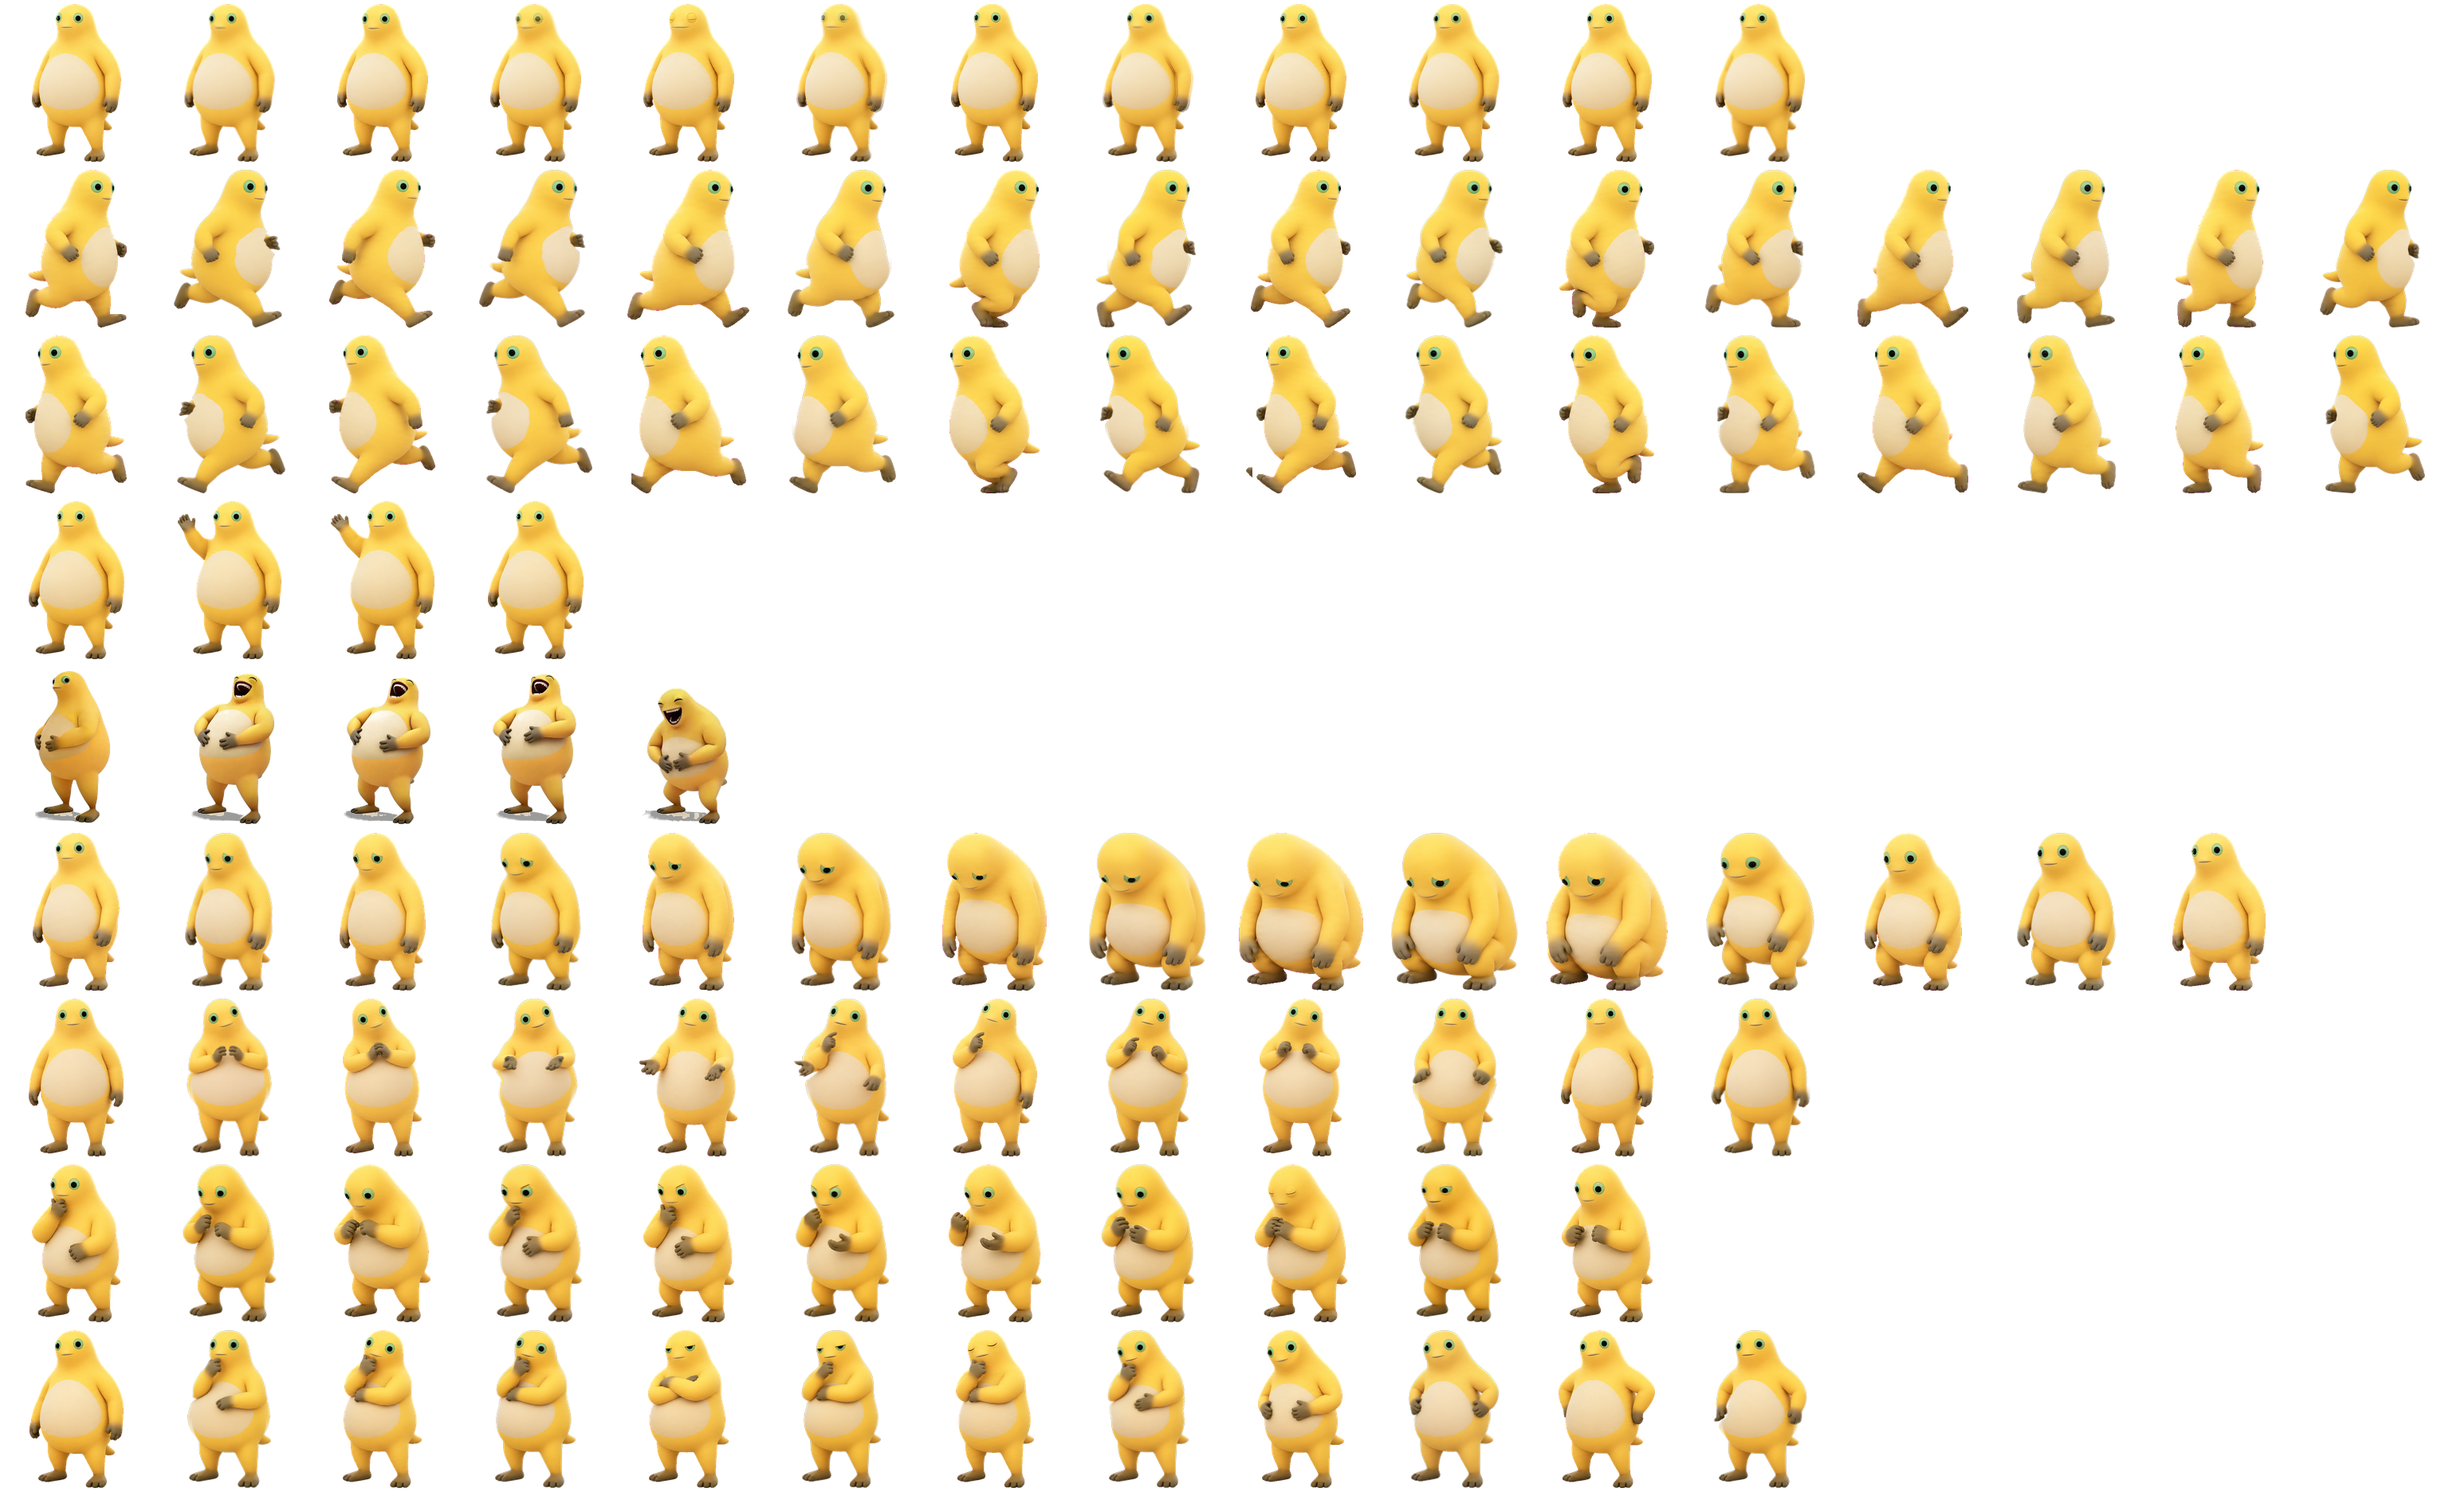
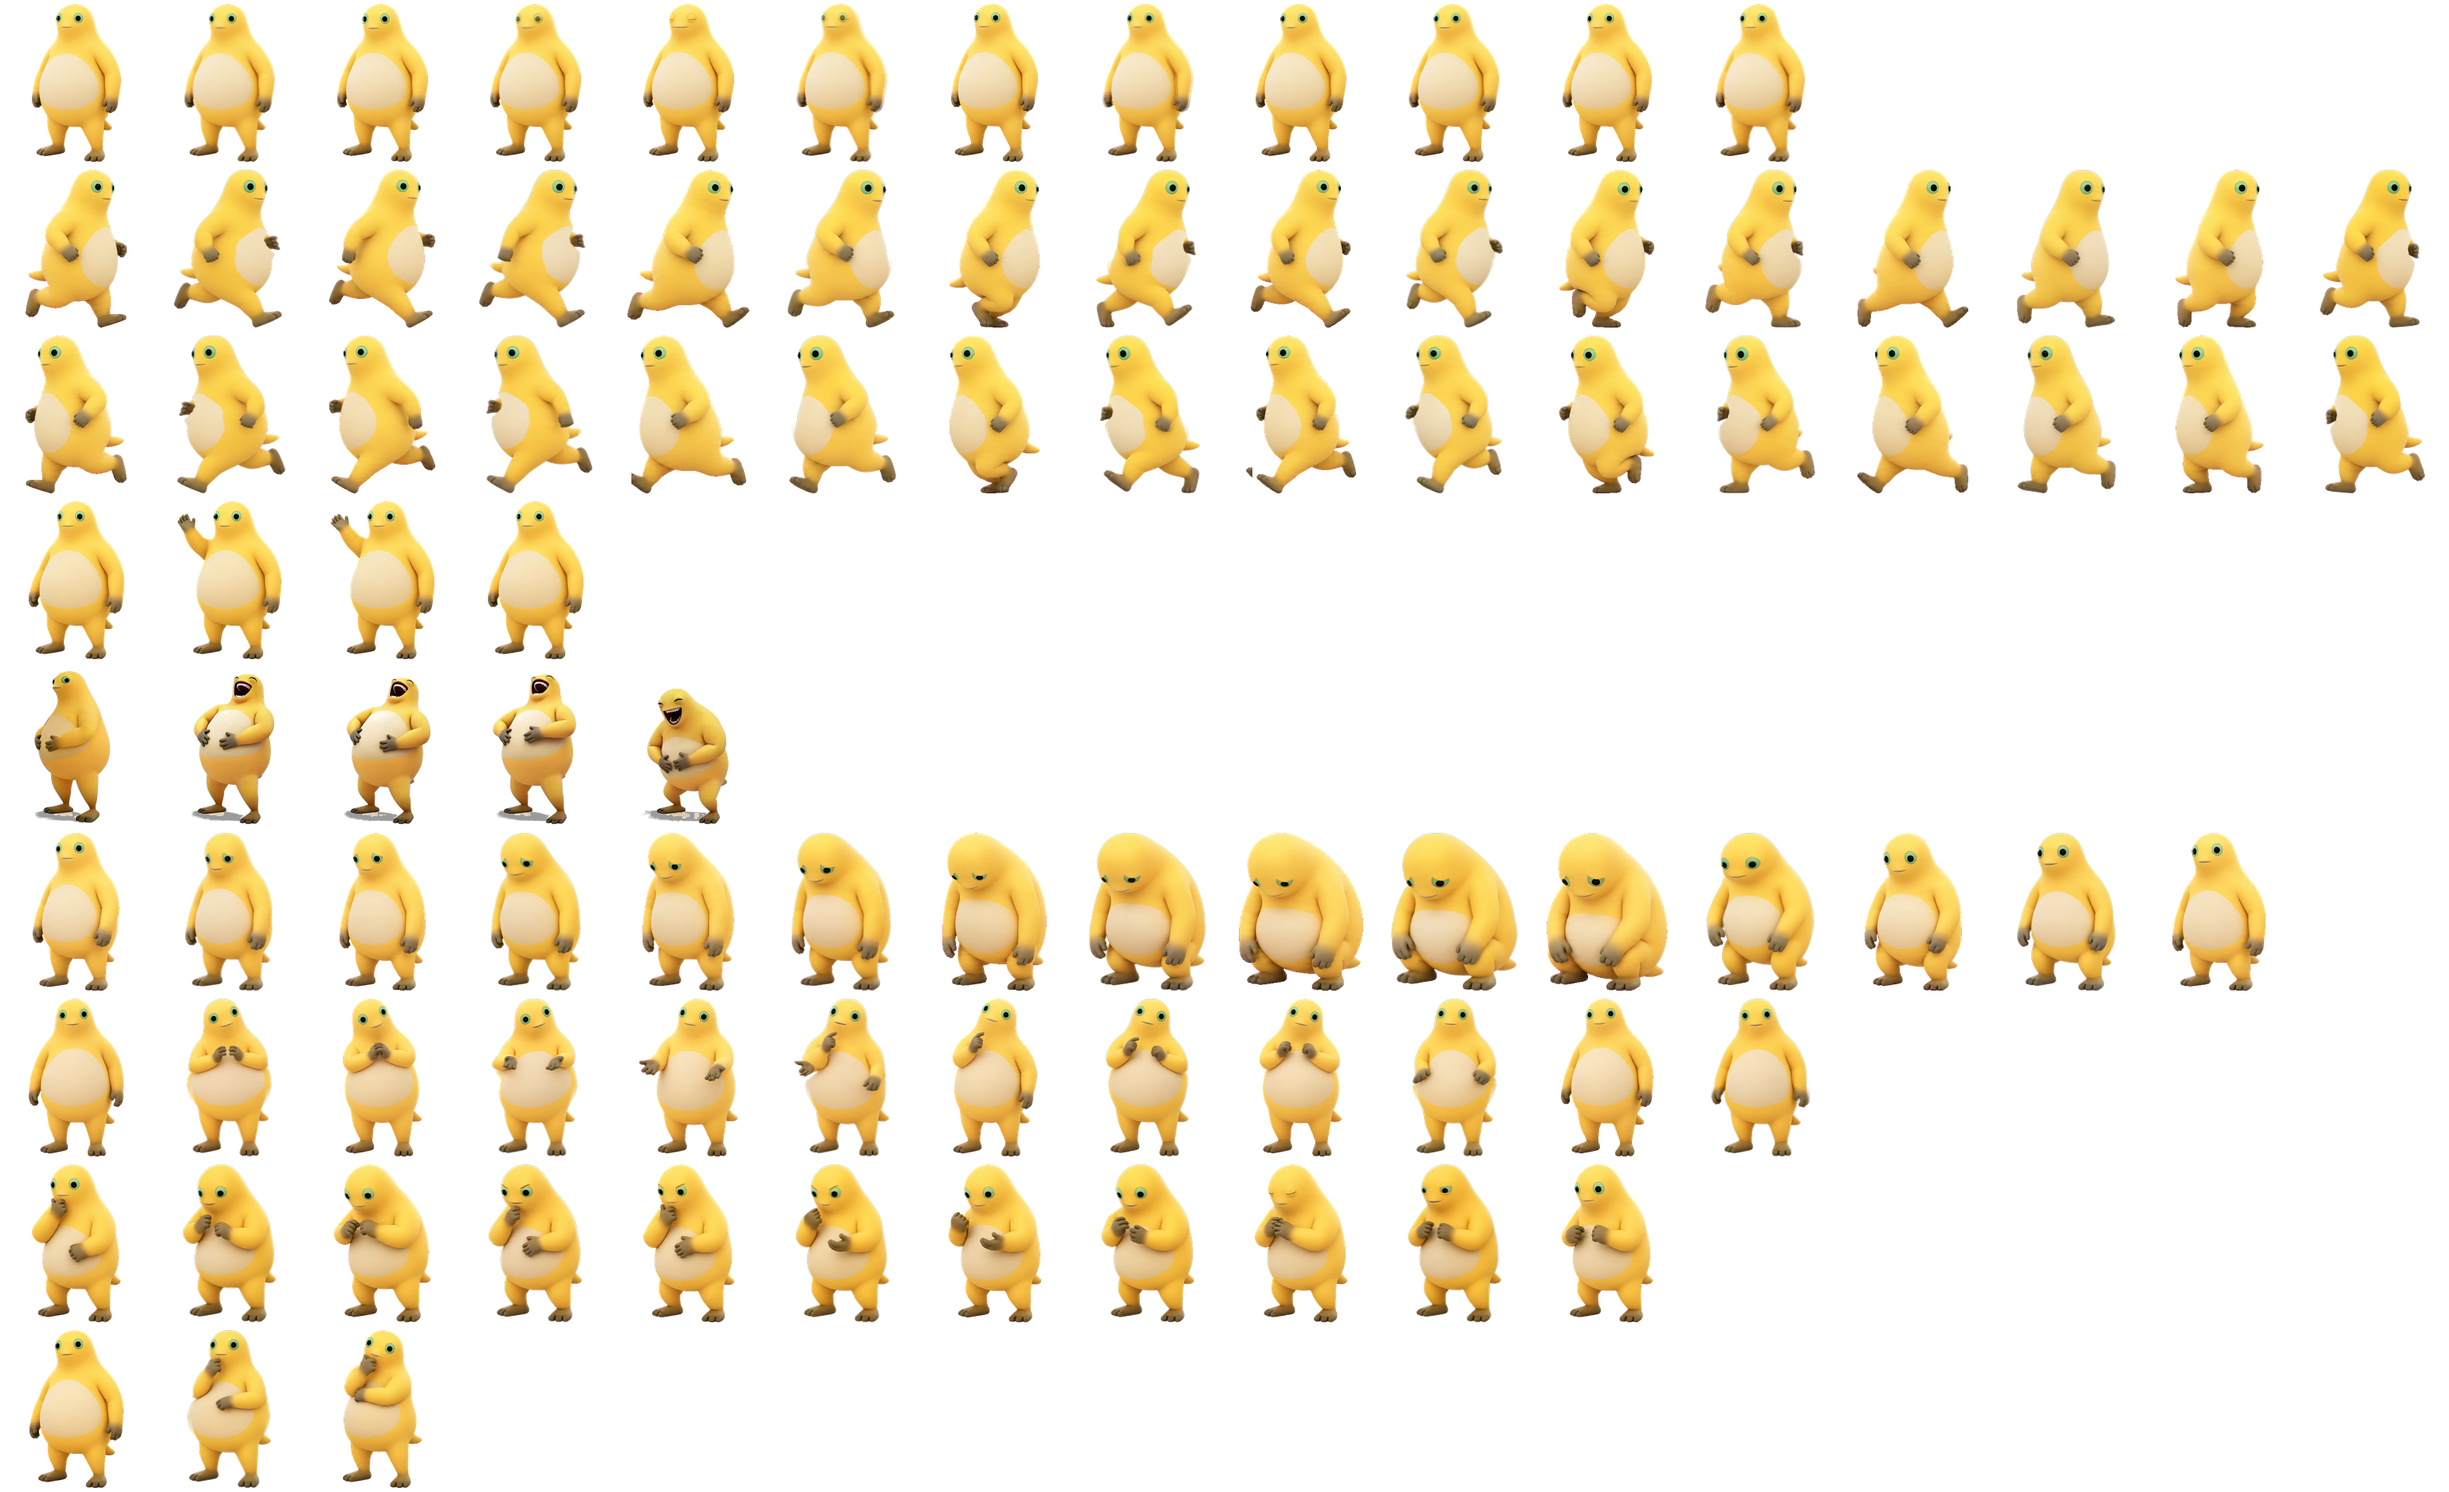
feat: 停下朗读改成抬手托腮并停住，不再是原地晃的 waiting（v54）
原来停下之后落在 `waiting` 上：一个 12 帧、20fps、循环播放的「站着晃」，
既不是「停下来」该有的样子，动得也快。换成 `thinking`：从垂手站着抬手到
下巴，播一次停在末帧（托腮、另一条手臂横抱在肚子上）。loop=False 的动画
在 `PetState.tick` 里本来就停在末帧，不用加新机制。

- 素材：`waiting` 从 ROW_MAP 里换掉，改成 `thinking = (row8, 2 帧, 4fps,
  once, ai)`。row8 后面还有抱臂、双手叠腹的帧，全收进来会变成
  「托腮→抱臂→托腮」的抽动，所以只切前两帧，中间那帧用已有的图生图结果
  （`mids/thinking/0_1.png`，从 `mids/waiting/` 改名并删掉用不上的 5 张）
- 产出 3 帧 / 6fps / once：站立 → 过渡 → 托腮，500ms 停下来
- `pet.THINKING` 取代 `pet.WAITING`（BASE_STATES / PRIORITY 同步）
- 状态同步不再靠引擎回调：手动「停」、老板键暂停、进奶读模式时都显式
  推一次 `_pet_sync_base()`——引擎 stop 时不保证报状态，之前就漏过
- 右键菜单文案顺带修：手动停之后 `speech.paused` 是 False，菜单一直写
  「开始朗读」，实际点了是接着念。现在认 `_speech_paused`
- README 的动作清单和截图同步

自检：源码版与打包版 --selftest / --edgecheck 全 OK，thinking = 3 帧
6fps once。

Changed region(s): [[0.1875, 0.8985, 0.75, 1.0]]

diff --git a/main.py b/main.py
@@ -41,7 +41,7 @@ from theme import SKIN_NAMES, SKIN_ORDER, SKINS
 
 APP_TITLE = "Interline"
 # 每次迭代 +1，与服务器 version.json 对应；打包时写进 exe 的产品版本
-BUILD_VERSION = 53
+BUILD_VERSION = 54
 SERVER_KEY = "Interline.SingleInstance.v1"
 HEADER_H = 36
 RESIZE_MARGIN = 14
@@ -1148,6 +1148,7 @@ class Reader(QWidget):
             if self.speech.running and not self.speech.paused:
                 self.speech.pause()
                 self._boss_paused = True
+                self._pet_sync_base()       # 蛙也在藏起来的路上，姿势先换成托腮
             self._hide_window(hide_pet=True)
         else:
             self._do_show()
@@ -1156,6 +1157,7 @@ class Reader(QWidget):
             if self._boss_paused:
                 self.speech.resume()
                 self._boss_paused = False
+                self._pet_sync_base()
 
     def closeEvent(self, ev):
         self._persist()
@@ -1699,6 +1701,9 @@ class Reader(QWidget):
             self.speech.stop()
             self._clear_highlight()
             self.btn_speak.setText("续")
+            # 引擎停掉时不一定会报状态回来，这里自己推一次：
+            # 奶蛙要切到「托腮等你」的姿势
+            self._pet_sync_base()
         else:
             if self._speech_paused and self._speech_pos >= 0:
                 # 「续」：从停下的那个词接上。先换个新引擎——
@@ -1739,6 +1744,7 @@ class Reader(QWidget):
         self._speech_char = 0
         self._speech_paused = False
         self.btn_speak.setText("听")
+        self._pet_sync_base()
 
     def _on_sentence(self, idx: int):
         # 一行模式下没有排版坐标，整块重排：文本换了，宽度也要跟着变
@@ -2125,7 +2131,7 @@ class Reader(QWidget):
         """右键菜单里那一条朗读项：文案 + 能不能点。"""
         if self.speech.running and not self.speech.paused:
             return "停止朗读", True
-        if self.speech.paused:
+        if self.speech.paused or self._speech_paused:
             return "继续朗读", True
         return "开始朗读", bool(self.book and self._tts_sentences)
 
@@ -2180,8 +2186,10 @@ class Reader(QWidget):
             return
         if self.speech.running and not self.speech.paused:
             name = pet.RUNNING
-        elif self.speech.paused:
-            name = pet.WAITING
+        elif self.speech.paused or self._speech_paused:
+            # 停了（手动按「停」或被老板键按下）：抬手托腮，播一次就停在
+            # 那个姿势上等用户回来，不再回到那个原地晃的循环
+            name = pet.THINKING
         else:
             name = pet.IDLE
         if self._pet_window is not None:
@@ -2819,7 +2827,7 @@ def petcheck() -> int:
             log("RESULT    = FAIL 精灵表读不出来")
             return 2
         log(f"frame     = {sp.size().width()}x{sp.size().height()}")
-        for name in (pet_mod.IDLE, pet_mod.RUNNING, pet_mod.WAITING,
+        for name in (pet_mod.IDLE, pet_mod.RUNNING, pet_mod.THINKING,
                      pet_mod.WAVING, pet_mod.JUMPING, pet_mod.FAILED,
                      pet_mod.REVIEW, pet_mod.RUN_LEFT, pet_mod.RUN_RIGHT):
             fr = sp.frames(name)

diff --git a/make_pet_sheet.py b/make_pet_sheet.py
@@ -41,8 +41,14 @@ MIN_SHIFT = 2.5
 #   row0 idle（第 7 帧是首帧副本，去掉，用 6 帧）
 #   row1/row2 互为镜像，按眼睛朝向定为 right / left
 #   row3 waving(4) row4 jumping(5) row5 failed(8)
-#   row6 running(6) row7 review(6) row8 waiting(6)
+#   row6 running(6) row7 review(6) row8 thinking(2)
 #   row9/10 是 16 方向注视，不属于动画循环，不收
+#
+# thinking 只取 row8 的前两帧：第 1 帧垂手站着、第 2 帧手已经托在下巴上、
+# 另一条手臂横抱在肚子上（这就是「停下思考」要停住的那个姿势）。不循环，
+# 播完停在末帧——`PetState.tick` 对 loop=False 的动画本来就停在末帧。
+# row8 后面还有抱臂、双手叠腹这些帧，全收进来会变成「托腮→抱臂→托腮」的
+# 抽动，所以只切前两帧。
 #
 # 关于 fps：素材只有 4-8 帧，8fps 时单帧停留 125ms，看着一顿一顿。
 #
@@ -67,7 +73,7 @@ ROW_MAP = {
     "failed":        (5, 8, 9,  False, "ai"),
     "running":       (6, 6, 15, True,  "ai"),
     "review":        (7, 6, 10, False, "ai"),
-    "waiting":       (8, 6, 10, True,  "ai"),
+    "thinking":      (8, 2, 4,  False, "ai"),
 }
 
 # AI 中间帧目录（make_pet_ai.py --build 的产物）。找不到就整体退回传统插值。

diff --git a/make_pet_ai.py b/make_pet_ai.py
@@ -21,7 +21,7 @@
        192x208 的格子（这个 bug 让第一轮指标全错，误判成「模型不行」）。
 
 用法：
-    python make_pet_ai.py --prep waiting running      # 生成准备图到 build/naiwa_ai/in/
+    python make_pet_ai.py --prep thinking running     # 生成准备图到 build/naiwa_ai/in/
     # 然后用图生图工具逐对生成到 build/naiwa_ai/raw/<anim>/<i>_<j>.png
     python make_pet_ai.py --build                     # 抠底/对齐/宽度归一化 -> out/
 """
@@ -50,7 +50,7 @@ UPSCALE = 512 / FRAME_W          # 喂给模型的输入宽度
 #           生成的中间帧没有投影，跟前后帧对不上
 #   running-left 见 MIRROR：它是 running-right 的镜像，直接翻不用重新生成
 AI_ANIMS = {
-    "waiting":       (8, 6, True),
+    "thinking":      (8, 2, False),
     "running":       (6, 6, True),
     "running-right": (1, 8, True),
     "review":        (7, 6, False),

diff --git a/pet.py b/pet.py
@@ -19,7 +19,7 @@ import theme
 
 IDLE = "idle"
 RUNNING = "running"
-WAITING = "waiting"
+THINKING = "thinking"      # 停下朗读后的姿势：抬手托腮，播一次就停住（不循环）
 WAVING = "waving"
 JUMPING = "jumping"
 REVIEW = "review"
@@ -27,10 +27,10 @@ FAILED = "failed"
 RUN_LEFT = "running-left"
 RUN_RIGHT = "running-right"
 
-BASE_STATES = (IDLE, RUNNING, WAITING)
+BASE_STATES = (IDLE, RUNNING, THINKING)
 
 # 瞬时动作的抢占权，大的能打断小的
-PRIORITY = {IDLE: 0, RUNNING: 0, WAITING: 0,
+PRIORITY = {IDLE: 0, RUNNING: 0, THINKING: 0,
             WAVING: 1, JUMPING: 1, REVIEW: 2, FAILED: 3,
             RUN_LEFT: 5, RUN_RIGHT: 5}
 

diff --git a/README.md b/README.md
@@ -47,7 +47,7 @@
 
 主窗该有的全都还在——正文、目录、书签、书库、设置、页码、朗读按钮。点「书库」就在主窗里正常打开书库，点「目录」就翻目录，蛙一概不参与。两个窗口各管各的：拖蛙不会动主窗，主窗最小化、换主题、开书库，蛙只是继续念它的。
 
-九种动作接的是真状态，不是装饰：朗读时原地小跑，暂停时站着等，一句读完抬头看一眼，翻句朝对应的方向跑两步（`running-left` / `running-right`），加书签原地跳一下，读失败就愣住，闲置久了发呆。
+九种动作接的是真状态，不是装饰：朗读时原地小跑，**停下就抬手托腮停在那儿**（`thinking`，一次播完停在末帧，不循环），一句读完抬头看一眼，翻句朝对应的方向跑两步（`running-left` / `running-right`），加书签原地跳一下，读失败就愣住，闲置久了发呆。
 
 - 点奶蛙 = 摸它一下，它会捧腹大笑并放出笑声
 - 点气泡 = 开始 / 停止朗读（没开书时是去挑一本书）
@@ -67,7 +67,7 @@
 
 素材本身是低帧率的：每个动作只有 4–8 张关键帧，原速播放时单帧要停 70–125 ms，看着一顿一顿。补帧分两种做法：
 
-- **图生图补中间帧**（`make_pet_ai.py`，用于 `waiting` / `running` / `running-right` / `running-left` / `review` / `failed`）。把相邻两帧喂给图像模型，让它画「正好在两者中间」的那一帧。实测相邻帧步长降 30–36%，是唯一能把「整体不动、肢体大摆」的动作补干净的办法。
+- **图生图补中间帧**（`make_pet_ai.py`，用于 `thinking` / `running` / `running-right` / `running-left` / `review` / `failed`）。把相邻两帧喂给图像模型，让它画「正好在两者中间」的那一帧。实测相邻帧步长降 30–36%，是唯一能把「整体不动、肢体大摆」的动作补干净的办法。
 - **传统插值**（`make_pet_sheet.py` 里的质心补偿 + 交叉淡化，只用于 `idle`）。`idle` 相邻帧位移不到 1 像素，混合是干净的；换到跑动这类动作上会叠出两条腿。
 
 `waving` 和 `jumping` 不补帧，只把播放帧率提上来。前者模型把「抬手挥动」画成「手放在嘴边」还带出喙状变形（步长只降 18%），后者源素材带白色地面投影，喂进模型后投影在白底上消失，生成的中间帧跟前后帧对不上。
@@ -95,8 +95,9 @@
 规格、命名、方向映射、播放节奏都在 [`assets/naiwa/edges/SPEC.md`](assets/naiwa/edges/SPEC.md)，判定与落位在 `pet_edge.py`。预览在 `screenshots/pet-edges.png`（八向 base）、`pet-edges-context.png`（模拟桌面贴边）、`pet-edges-frames.png`（8×3 胶片条）、`pet-edges-anim.gif`（眨眼与抬爪）、`pet-snap.png`（真窗口贴八向的截图）、`pet-snap-bubble.png`（贴边时气泡的四个朝向）。
 
 <p align="center">
-  <img src="screenshots/pet-mode.png" width="620" alt="奶读模式：阅读器与奶蛙悬浮窗并存">
-  <img src="screenshots/settings-pet.png" width="420" alt="奶蛙设置">
+  <img src="screenshots/pet-mode.png" width="560" alt="奶读模式：阅读器与奶蛙悬浮窗并存">
+  <img src="screenshots/pet-thinking.png" width="300" alt="停下朗读后停在托腮的姿势">
+  <img src="screenshots/settings-pet.png" width="380" alt="奶蛙设置">
 </p>
 
 **老板键（`Ctrl+Alt+D`）**
